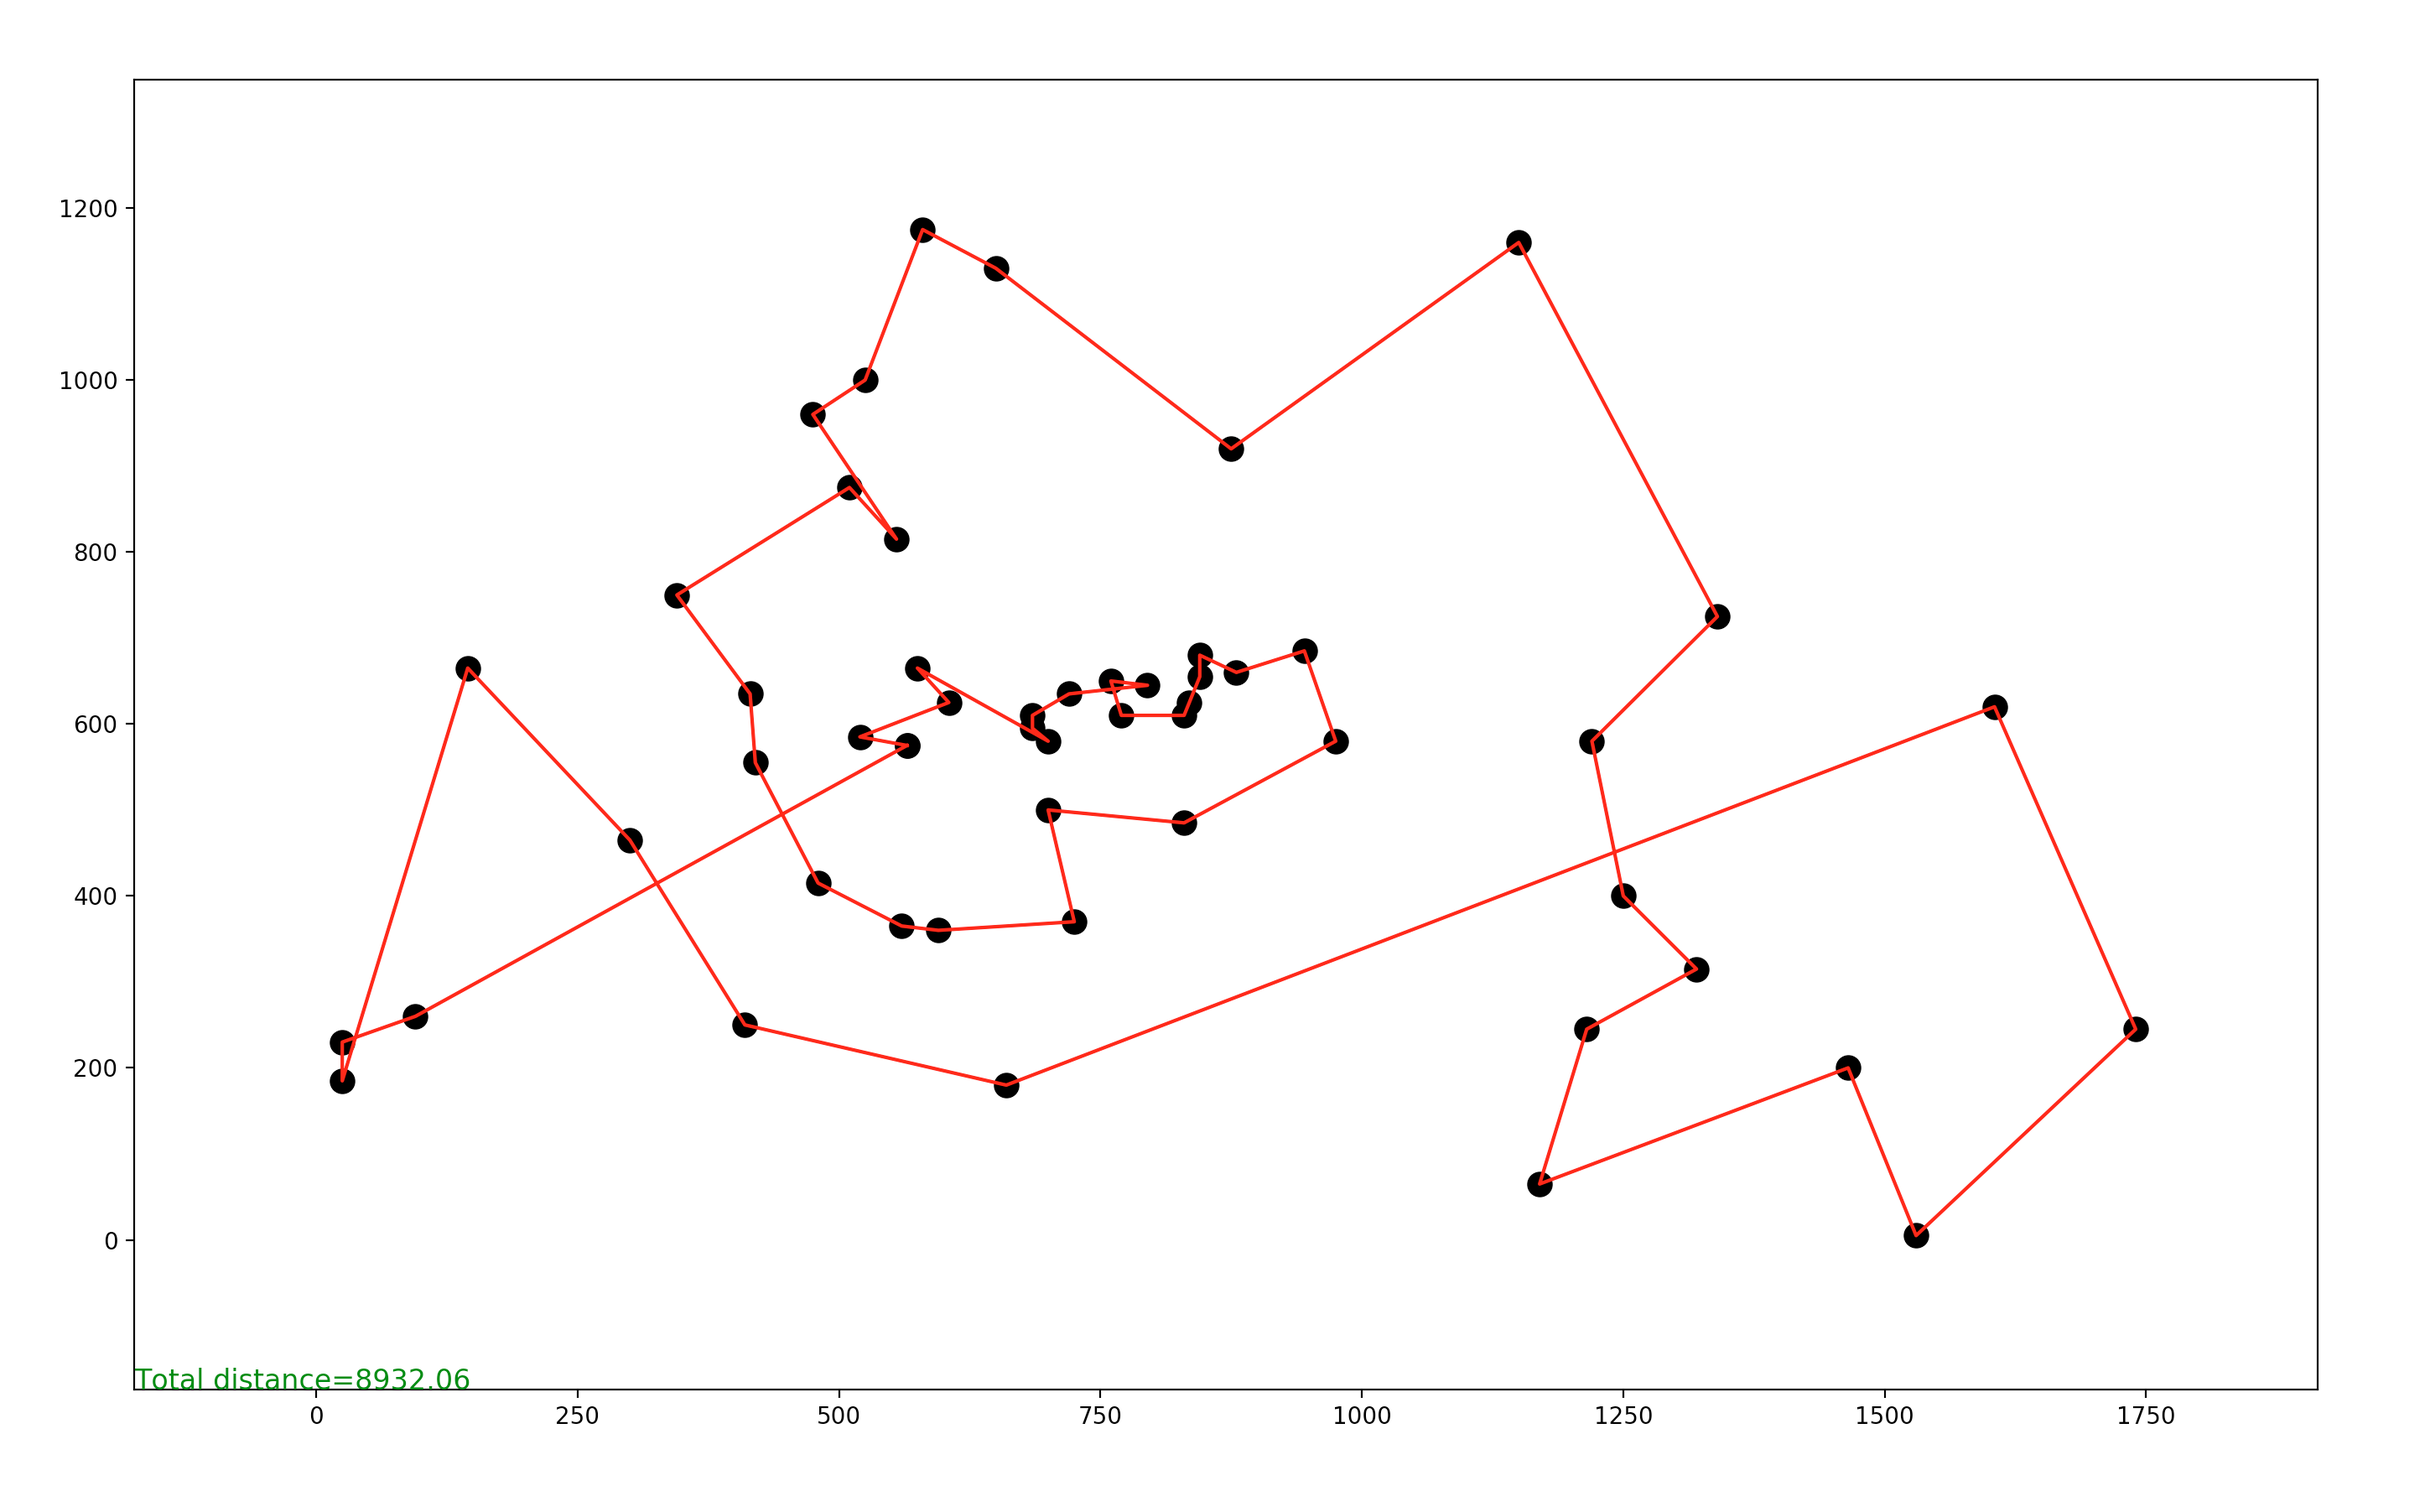
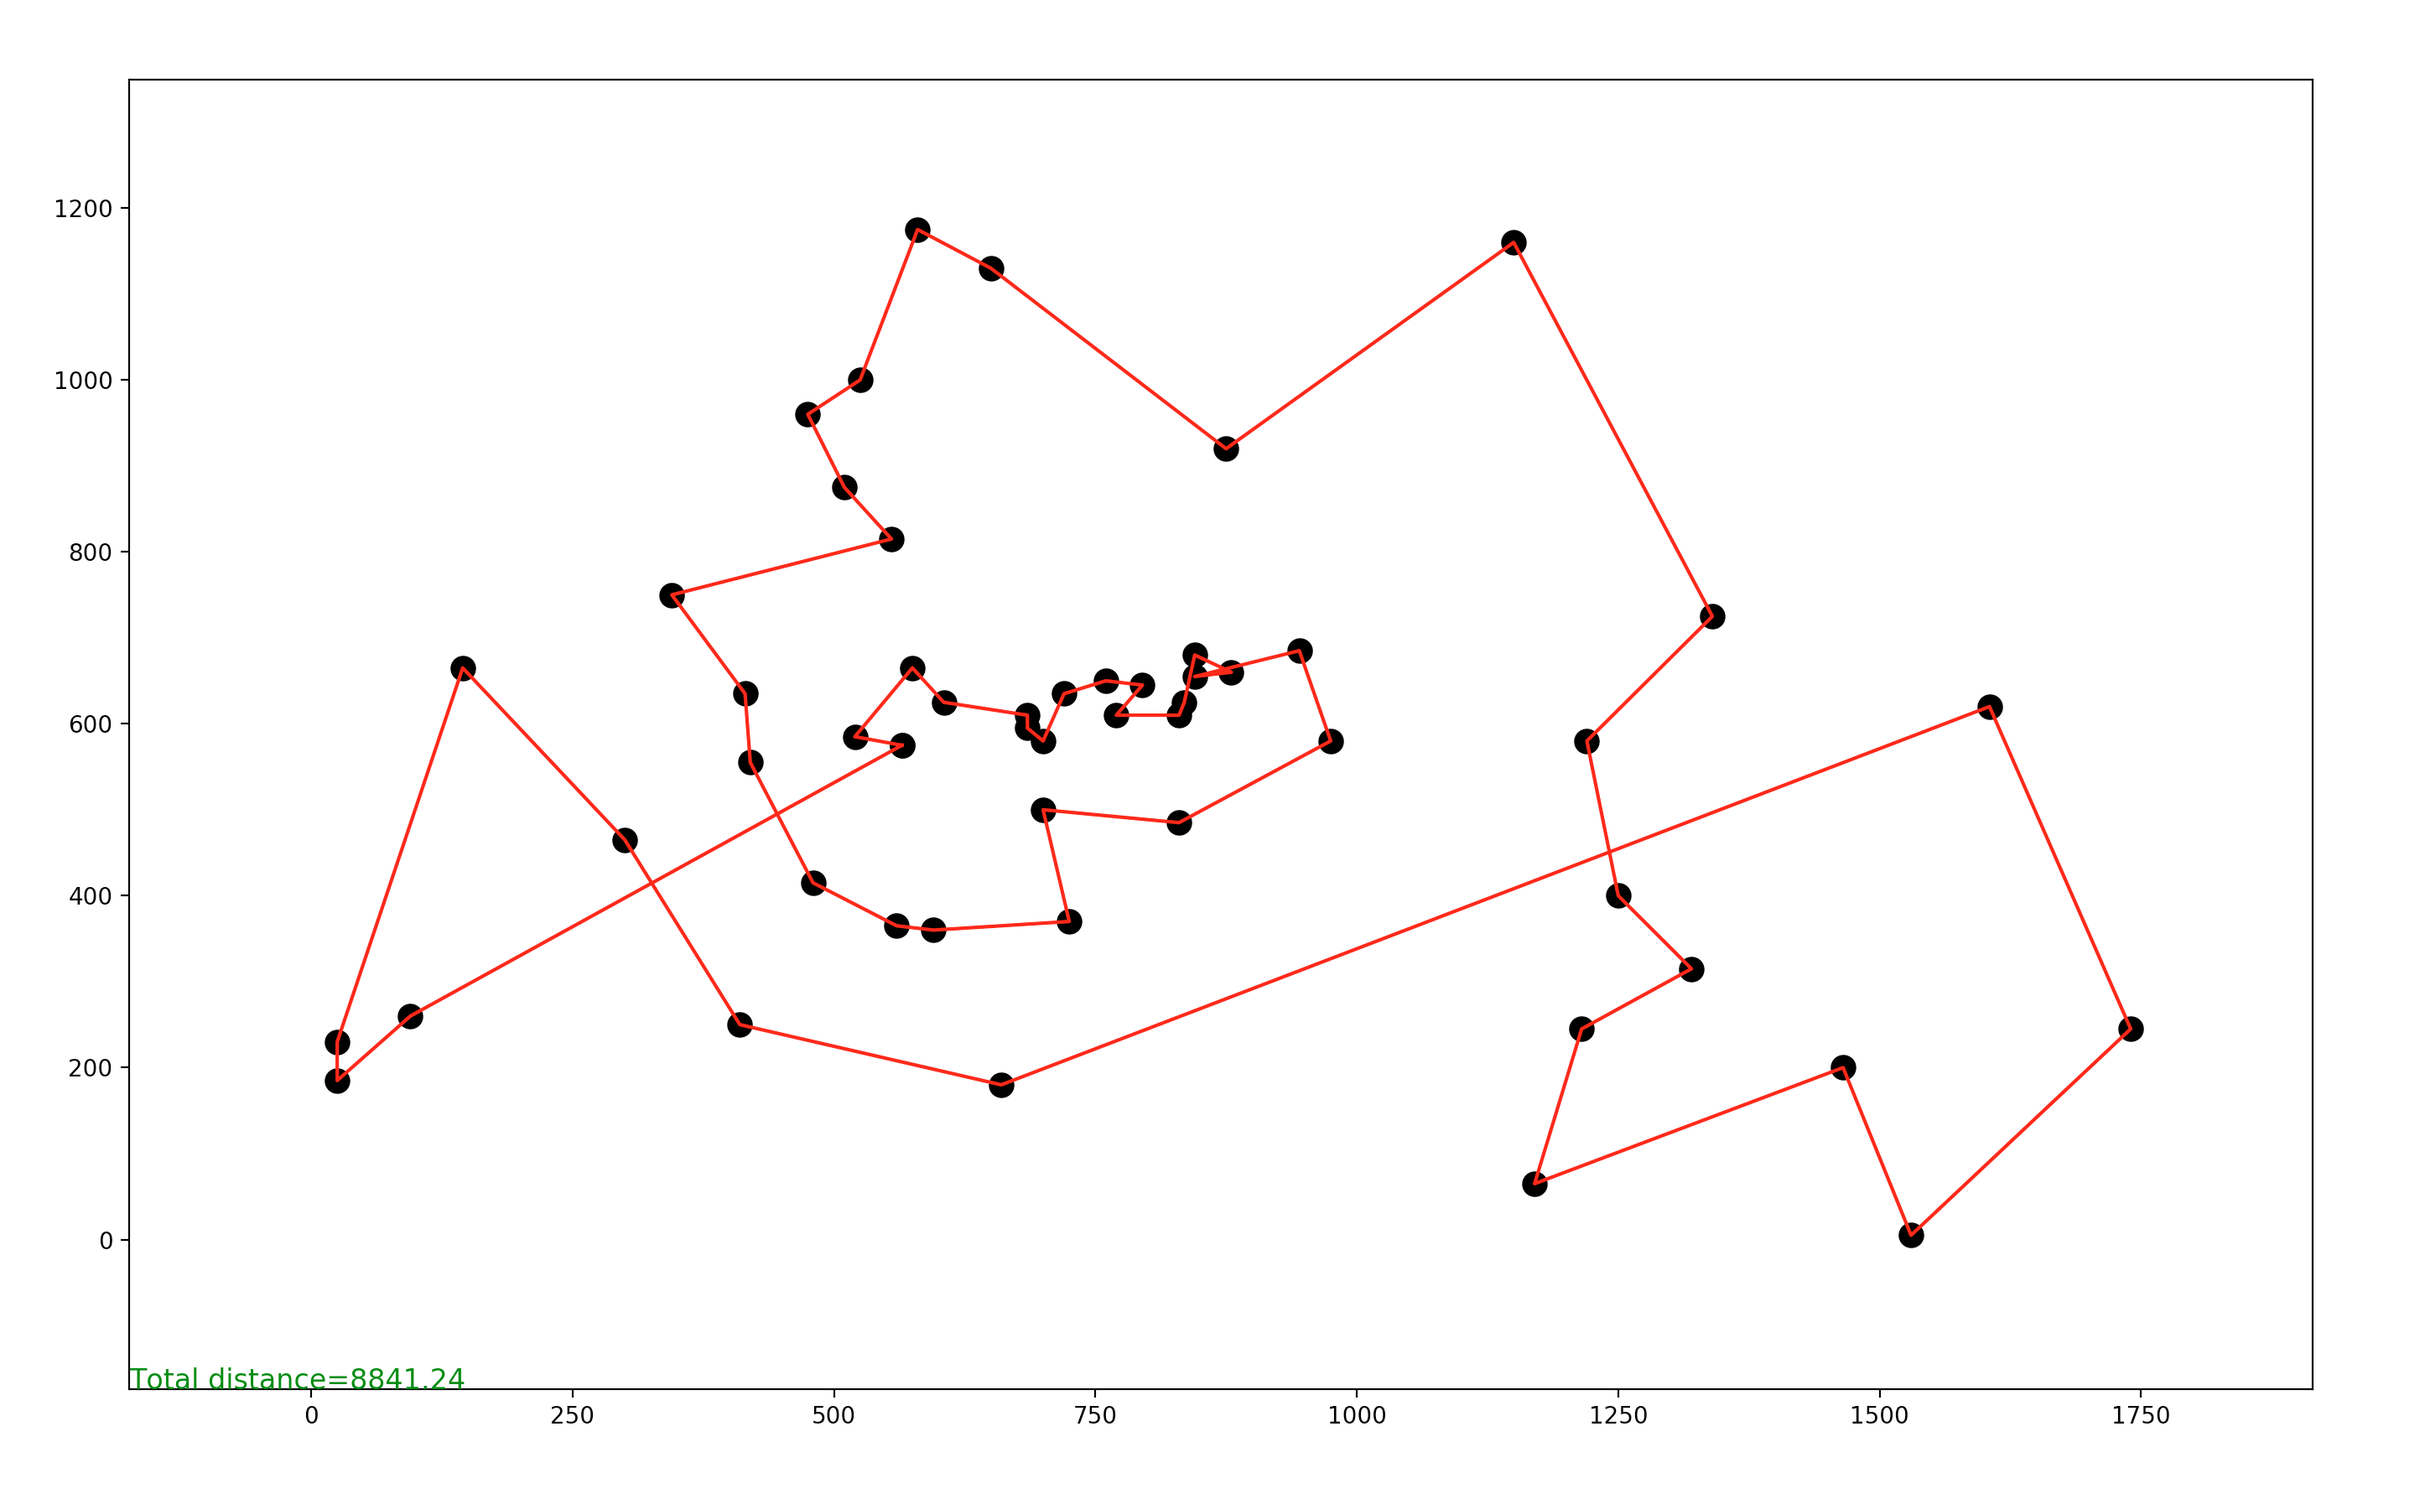
changed README and it is added new image of run simulated annealing

diff --git a/simulatedannealing.py b/simulatedannealing.py
@@ -122,7 +122,7 @@ class SimulatedAnnealing(object):
 
 if __name__ == '__main__':
 	# init parameter
-	nameFile = "data/test.tsp"
+	nameFile = "data/berlin52.tsp"
 	n=100
 	tk = 100
 	alpha = 0.86
@@ -135,7 +135,7 @@ if __name__ == '__main__':
 	if len(sys.argv) > 3:
 		tk = int(sys.argv[3])
 	if len(sys.argv) > 4:
-		alpha = int(sys.argv[4])
+		alpha = float(sys.argv[4])
 	if len(sys.argv) > 5:
 		swap = int(sys.argv[5])
 	# get coordinate

diff --git a/README.md b/README.md
@@ -57,12 +57,21 @@ and
 ```
 
 `Tsp Simulated Annealing with:`
+
+you can add the following entries to the program with the following order in mind:
+
+* file name
+* maximum number of iterations
+* temperature
+* temperature decrease
+* maximum proximity of exchange
+
 ```
    python simulatedannealing.py
 
    python simulatedannealing.py pr439.tsp
 
-   python simulatedannealing.py pr439.tsp 200
+   python simulatedannealing.py pr439.tsp 200 100 0.9 3
 ```
 
 ### Examples
@@ -78,6 +87,12 @@ python pilot.py
 
 ![alt text](https://github.com/camilorodriguezga/Tsp/blob/master/image/semipilot/semipilot-berlin52-2-2.png)
 
+```
+python simulatedannealing.py
+```
+
+![alt text](https://github.com/camilorodriguezga/Tsp/blob/master/image/simulatedannealing/simulatedannealing-berlin52.png)
+
 Run
 -------
 
@@ -91,9 +106,15 @@ You can run of basic example with:
    make pilot
 
    make random_search
+
+   make evolutionary_strategy
+
+   make simulated_annealing
 ```
 
 References
 -----------
 
-*  Vob Stefan, Fink Andreas and Duin Cees (2005) Looking Ahead with the Pilot Method.  
+*  Vob Stefan, Fink Andreas and Duin Cees (2005) Looking Ahead with the Pilot Method.
+
+*  Kathryn A. Dowsland, Belarmino Adenso Díaz (2003), Heuristic design and fundamentals of the Simulated Annealing
